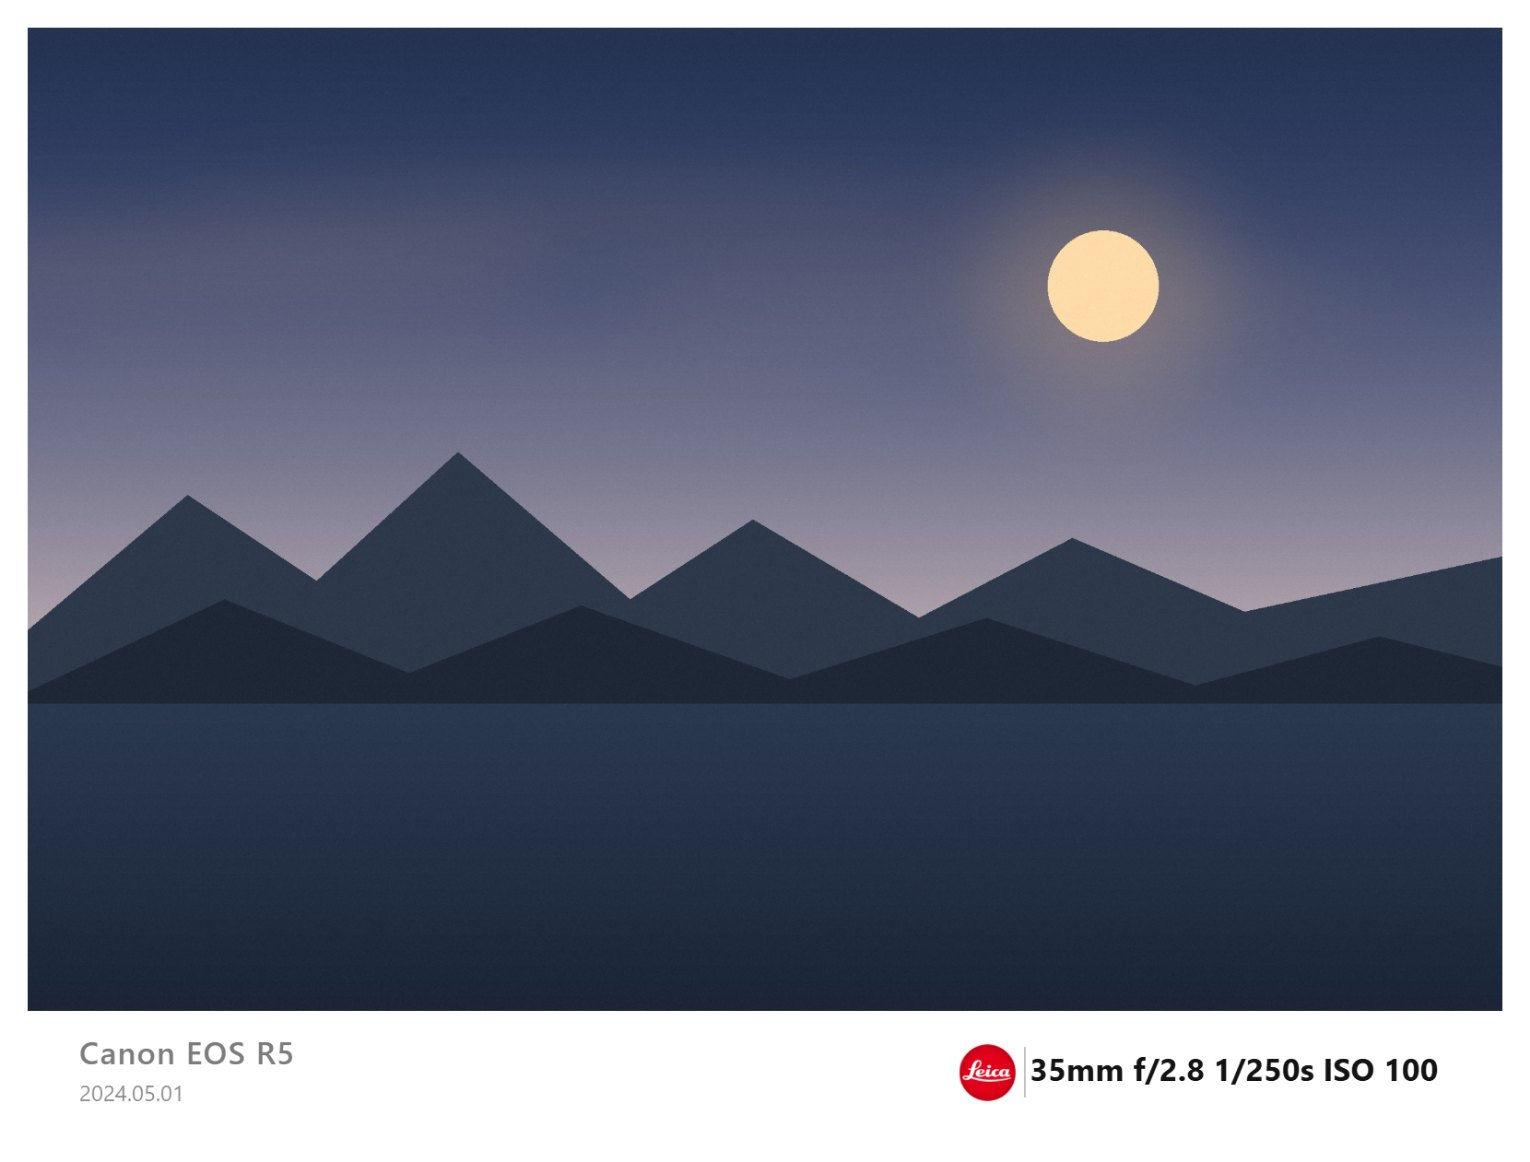
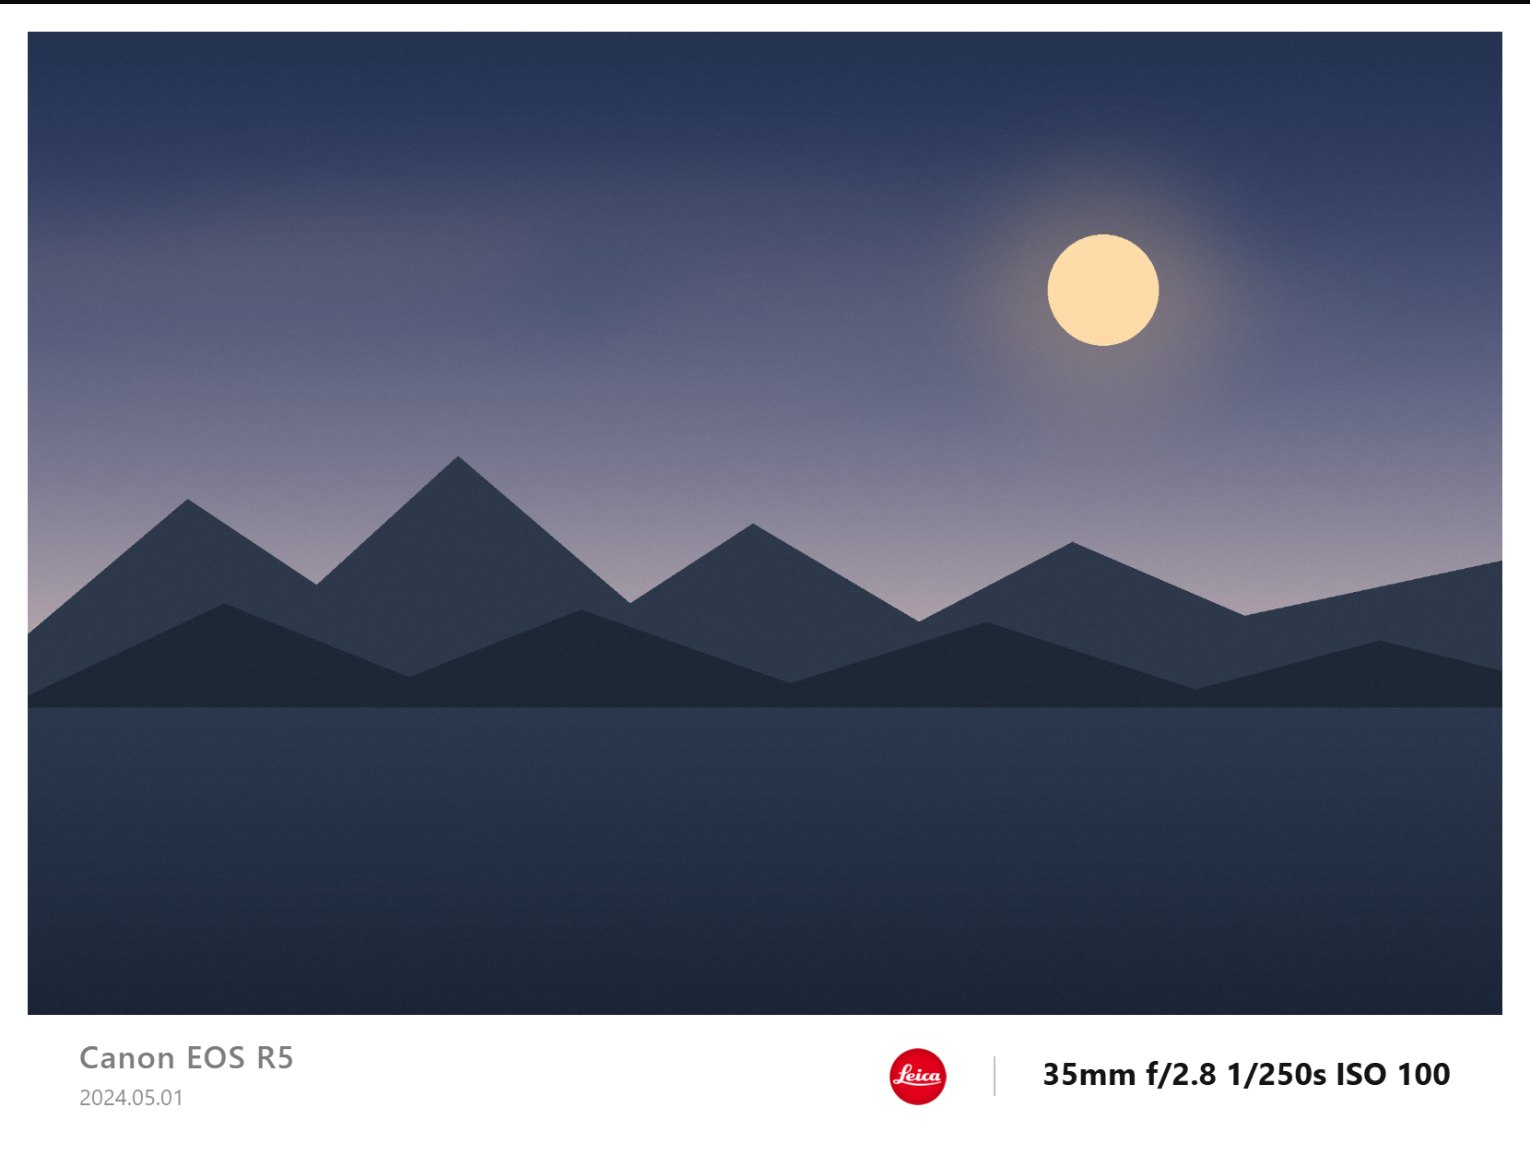
feat: 白条图标与参数间距对齐参考图（各 3.2% 图宽）

diff --git a/index.html b/index.html
@@ -791,16 +791,22 @@
     // 右侧：图标 + 分隔线 + 参数
     var pW = params ? measureAt(ctx, params, pS, 700) : 0;
     var lw = logoW(pH);
-    var gap = g.iw * 0.012;
-    var groupW = (lw ? lw + gap * 0.8 : 0) + (params ? pW : 0) + (lw && params ? gap * 0.7 : 0);
+    // 参考图实测：图标到竖线、竖线到参数，各 3.2% 图宽
+    var gapIcon = g.iw * 0.032;
+    var gapParam = g.iw * 0.032;
+    var dividerW = Math.max(1.5, g.iw * 0.0012);
+    var showDivider = !!(lw && params);
+    var groupW = (lw || 0) + (showDivider ? gapIcon + dividerW + gapParam : 0) + (params ? pW : 0);
     var gx = padR - groupW;
 
     if (lw) {
       drawLogo(ctx, gx, cy, pH, 'left');
-      gx += lw + gap * 0.8;
-      if (params) {
+      gx += lw;
+      if (showDivider) {
+        var divX = gx + gapIcon;
         ctx.fillStyle = line;
-        ctx.fillRect(Math.round(gx - gap * 0.35), Math.round(cy - pH * 0.45), Math.max(1.5, g.iw * 0.0012), Math.round(pH * 0.9));
+        ctx.fillRect(Math.round(divX), Math.round(cy - pH * 0.35), Math.round(dividerW), Math.round(pH * 0.7));
+        gx = divX + dividerW + gapParam;
       }
     }
     if (params) {
@@ -811,7 +817,7 @@
     }
 
     // 左侧：设备名 +（日期/署名）
-    var leftMax = (groupW > 0 ? gx - gap * 1.2 : padR) - padL;
+    var leftMax = (groupW > 0 ? gx - gapIcon : padR) - padL;
     var ns = nameS;
     if (name && leftMax > 10) {
       var nw = measureAt(ctx, name, ns, 500);
